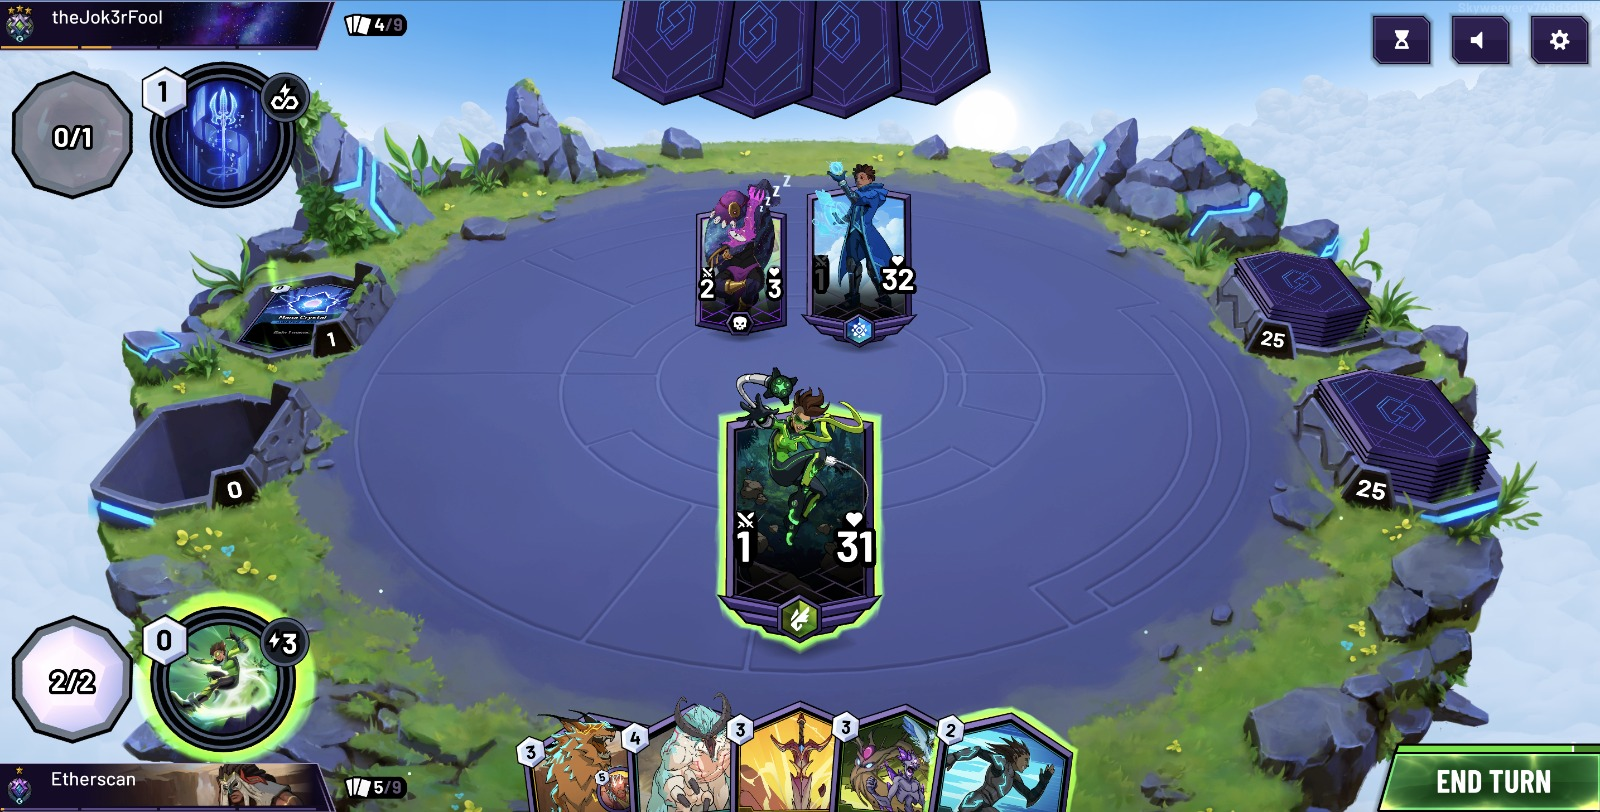
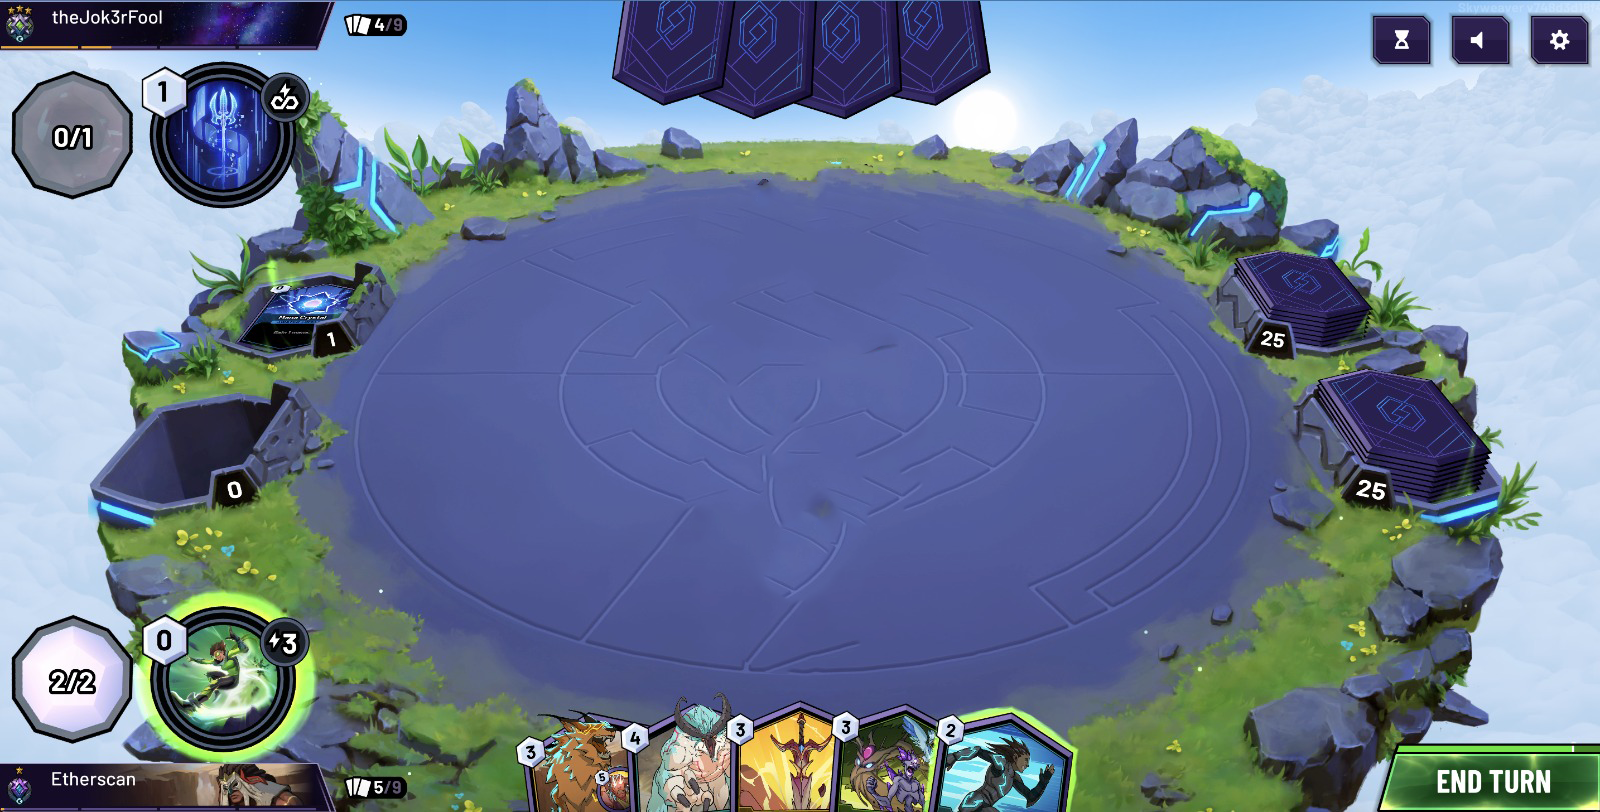
feat: added attack animation

Changed region(s): [[0.4375, 0.4618, 0.5625, 0.8313], [0.4375, 0.1847, 0.5938, 0.431]]

diff --git a/frontend/src/components/Cards/Card/Card.tsx b/frontend/src/components/Cards/Card/Card.tsx
@@ -1,11 +1,119 @@
 import styles from "./Card.module.scss";
 import CARD from "assets/card.png";
+import { useDispatch, useSelector } from "react-redux";
+import { RootState } from "store";
+import { setAttackerCard, setDefenderCard } from "store/slicers/card";
+import { clsnm } from "utils/clsnm";
 
-const Card = () => {
+const Card = ({
+  power = 9,
+  heal = 9,
+  location = 0,
+  id,
+  who = "ME",
+}: {
+  power: number;
+  heal: number;
+  location: number;
+  id: number;
+  who: "ME" | "ENEMY";
+}) => {
+  const dispatch = useDispatch();
+  const attackerCard = useSelector(
+    (state: RootState) => state.card.attackerCard
+  );
+  const defenderCard = useSelector(
+    (state: RootState) => state.card.defenderCard
+  );
+  const attackerCards = useSelector(
+    (state: RootState) => state.card.attackerCards
+  );
+  const defenderCards = useSelector(
+    (state: RootState) => state.card.defenderCards
+  );
+
+  const handleClick = () => {
+    if (who === "ENEMY") {
+      if (attackerCard === -1) {
+        dispatch(setDefenderCard(-1));
+      } else if (defenderCard !== id) {
+        dispatch(setDefenderCard(id));
+      } else {
+        dispatch(setDefenderCard(-1));
+      }
+    } else {
+      if (attackerCard !== id) {
+        dispatch(setAttackerCard(id));
+      } else {
+        dispatch(setAttackerCard(-1));
+      }
+    }
+  };
+
   return (
-    <div className={styles.wrapper}>
+    <div
+      className={
+        who === "ME" && attackerCard === id && defenderCard !== -1
+          ? clsnm(styles.wrapper, styles.selected, styles.clicked)
+          : attackerCard === id && who === "ME"
+          ? clsnm(styles.wrapper, styles.selected)
+          : styles.wrapper
+      }
+      style={{
+        marginTop: `${location}px`,
+        transform:
+          who === "ME" &&
+          attackerCard === id &&
+          defenderCard !== -1 &&
+          attackerCards.length !== 0 &&
+          defenderCards.length !== 0
+            ? `translate(${setAttackLocation(
+                attackerCard,
+                defenderCard,
+                attackerCards.length,
+                defenderCards.length
+              )}px, -180%) scale(1.2)`
+            : who === "ME" && attackerCard === id && defenderCard === -1
+            ? `scale(1.2)`
+            : "",
+      }}
+      onClick={handleClick}
+    >
       <img src={CARD} className={styles.card} alt="card" />
+      <div className={styles.power}>{power}</div>
+      <div className={styles.heal}>{heal}</div>
     </div>
   );
 };
 export { Card };
+
+function setAttackLocation(
+  aID: number,
+  dID: number,
+  aL: number,
+  dL: number
+): number {
+  let aLocation;
+  let dLocation;
+  if (aL % 2 === 0) {
+    const origin = aL / 2;
+    const distance = origin - aID;
+    aLocation = distance * 100;
+  } else {
+    const origin = aL / 2 - 0.5;
+    const distance = origin - aID;
+    aLocation = distance * 100;
+  }
+
+  if (dL % 2 === 0) {
+    const origin = aL / 2;
+    const distance = origin - dID;
+    dLocation = distance * 100;
+  } else {
+    const origin = aL / 2 - 0.5;
+    const distance = origin - dID;
+    dLocation = distance * 100;
+  }
+
+  return (dLocation - aLocation) * -1;
+}

diff --git a/frontend/src/components/Cards/Cards.tsx b/frontend/src/components/Cards/Cards.tsx
@@ -1,14 +1,86 @@
+import { clsnm } from "utils/clsnm";
 import styles from "./Cards.module.scss";
 import { Card } from "components";
-
+import { CardInfo, setAttackerCard } from "store/slicers/card";
+import { useDispatch, useSelector } from "react-redux";
+import { RootState } from "store";
+import { useEffect } from "react";
+import { setDefenderCard } from "store/slicers/card";
 const Cards = ({ location }: { location: "TOP" | "BOTTOM" }) => {
+  const dispatch = useDispatch();
+  const attackerCard = useSelector(
+    (state: RootState) => state.card.attackerCard
+  );
+  const defenderCard = useSelector(
+    (state: RootState) => state.card.defenderCard
+  );
+  const attackerCards = useSelector(
+    (state: RootState) => state.card.attackerCards
+  );
+  const defenderCards = useSelector(
+    (state: RootState) => state.card.defenderCards
+  );
+
+  useEffect(() => {
+    if (attackerCard === -1) {
+      dispatch(setDefenderCard(-1));
+    }
+    if (defenderCard !== -1 && attackerCard !== -1) {
+      setTimeout(() => {
+        dispatch(setDefenderCard(-1));
+        dispatch(setAttackerCard(-1));
+      }, 700);
+    }
+  }, [attackerCard, defenderCard]);
   return (
-    <div className={styles.wrapper}>
-      <Card />
-      <Card />
-      <Card />
-      <Card />
+    <div
+      className={
+        location === "TOP"
+          ? clsnm(styles.wrapper, styles.top)
+          : clsnm(styles.wrapper, styles.bottom)
+      }
+    >
+      {location === "TOP" &&
+        attackerCards.map((card: CardInfo, i: number) => {
+          return (
+            <Card
+              id={card.id}
+              key={card.id}
+              heal={card.heal}
+              power={card.power}
+              location={setLocation(attackerCards.length, i, location)}
+              who={"ENEMY"}
+            />
+          );
+        })}
+      {location === "BOTTOM" &&
+        defenderCards.map((card: CardInfo, i: number) => {
+          return (
+            <Card
+              id={card.id}
+              key={card.id}
+              heal={card.heal}
+              power={card.power}
+              location={setLocation(defenderCards.length, i, location)}
+              who={"ME"}
+            />
+          );
+        })}
     </div>
   );
 };
 export { Cards };
+
+function setLocation(total: number, i: number, type: "TOP" | "BOTTOM"): number {
+  if (total === 0) return 0;
+  const mark = type === "BOTTOM" ? 1 : -1;
+  const space = 15;
+  const origin = total / 2;
+  if (total % 2 === 0) {
+    const distance = Math.abs(origin - i) - 0.5;
+    return distance * space * mark;
+  } else {
+    const distance = Math.abs(origin - i);
+    return distance * space * mark;
+  }
+}

diff --git a/frontend/src/store/slicers/card.ts b/frontend/src/store/slicers/card.ts
@@ -1,0 +1,44 @@
+import { createSlice, PayloadAction } from "@reduxjs/toolkit";
+export type CardInfo = {
+  id: number;
+  heal: number;
+  power: number;
+};
+const cardInfo: Array<CardInfo> = [
+  { id: 0, heal: 4, power: 3 },
+  { id: 1, heal: 6, power: 2 },
+  { id: 2, heal: 2, power: 7 },
+  { id: 3, heal: 1, power: 9 },
+  { id: 4, heal: 9, power: 1 },
+];
+
+export interface CardState {
+  attackerCard: number;
+  defenderCard: number;
+  attackerCards: Array<CardInfo>;
+  defenderCards: Array<CardInfo>;
+}
+
+const initialState: CardState = {
+  attackerCard: -1,
+  defenderCard: -1,
+  attackerCards: cardInfo,
+  defenderCards: cardInfo,
+};
+
+export const cardSlice = createSlice({
+  name: "card",
+  initialState,
+  reducers: {
+    setAttackerCard: (state, action: PayloadAction<number>) => {
+      state.attackerCard = action.payload;
+    },
+
+    setDefenderCard: (state, action: PayloadAction<number>) => {
+      state.defenderCard = action.payload;
+    },
+  },
+});
+
+export const { setAttackerCard, setDefenderCard } = cardSlice.actions;
+export default cardSlice.reducer;

diff --git a/frontend/src/components/Cards/Card/Card.module.scss b/frontend/src/components/Cards/Card/Card.module.scss
@@ -2,8 +2,34 @@
     display: flex;
     align-items: center;
     justify-content: center;
+    position: relative;
+    color: white;
+    transition: all 0.5s ease;
+
+    &.selected {
+        z-index: 14;
+        box-shadow: 0px 0px 10px 10px rgba(0, 0, 0, 0.5);
+    }
+
 
     .card {
-        width: 75px;
+        width: 125px;
+        border-radius: 12px;
+    }
+
+    .power {
+        position: absolute;
+        bottom: 10px;
+        left: 15px;
+        z-index: 10;
+        font-size: 32px;
+    }
+
+    .heal {
+        position: absolute;
+        bottom: 10px;
+        right: 15px;
+        z-index: 10;
+        font-size: 32px;
     }
 }

diff --git a/frontend/src/store/index.ts b/frontend/src/store/index.ts
@@ -1,10 +1,11 @@
 import { configureStore } from "@reduxjs/toolkit";
 import { TypedUseSelectorHook, useSelector } from "react-redux";
 import themeSlice from "./slicers/theme";
-
+import cardSlice from "./slicers/card";
 export const store = configureStore({
   reducer: {
     theme: themeSlice,
+    card: cardSlice,
   },
   middleware: (getDefaultMiddleware) => {
     const customizedMiddleware = getDefaultMiddleware({

diff --git a/frontend/src/components/Cards/Cards.module.scss b/frontend/src/components/Cards/Cards.module.scss
@@ -1,4 +1,19 @@
 .wrapper {
     display: flex;
     align-items: center;
+    width: 675px;
+    justify-content: center;
+    gap: 10px;
+    position: absolute;
+    left: 50%;
+    transform: translateX(-50%);
+
+    &.bottom {
+        bottom: 0px;
+    }
+
+    &.top {
+        top: 0px;
+    }
+
 }
